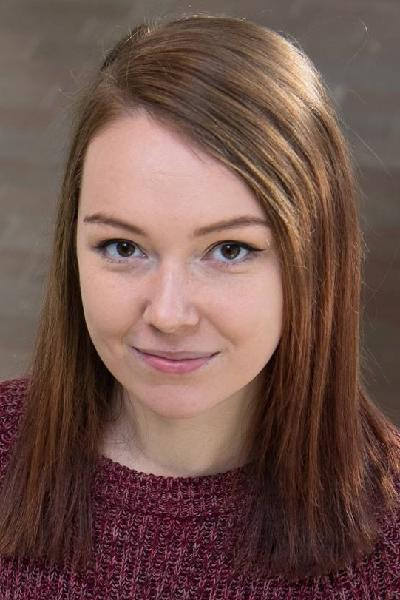
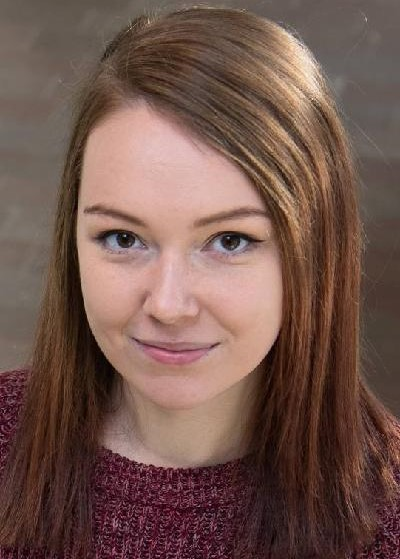
people update

diff --git a/_sass/_theme.scss b/_sass/_theme.scss
@@ -526,8 +526,8 @@ img.publication{
 }
 
 img.people{
-	width: 87px;
-	height: 113px;
+	width: 75px;
+	height: 115px;
 	float: left;
 	margin-right: 2em;
 	clear: left;
